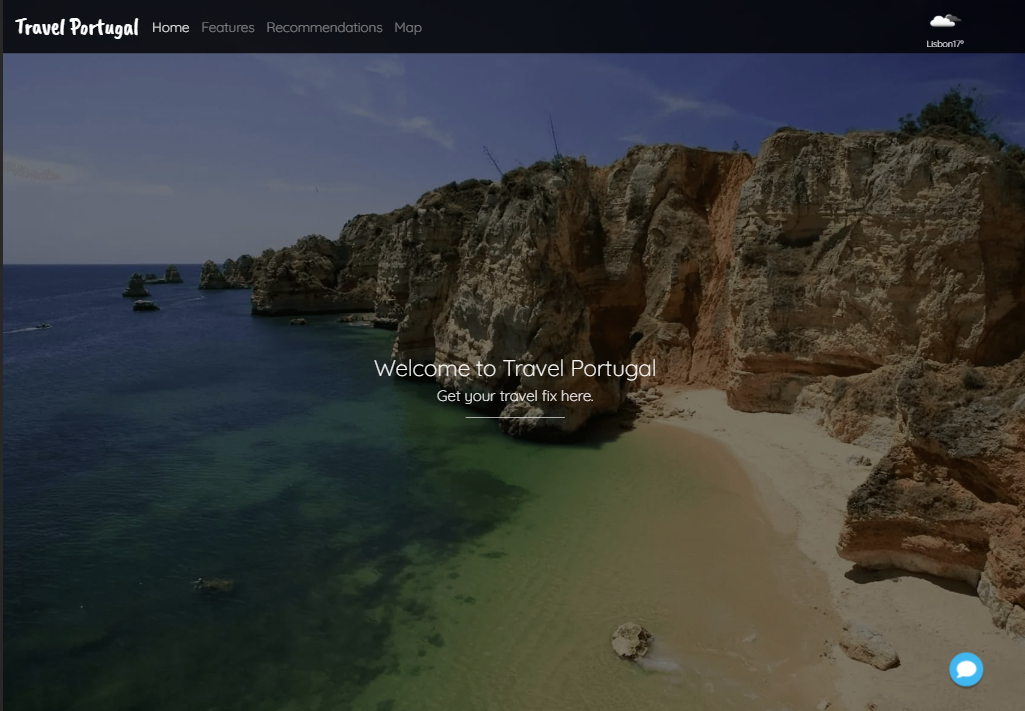
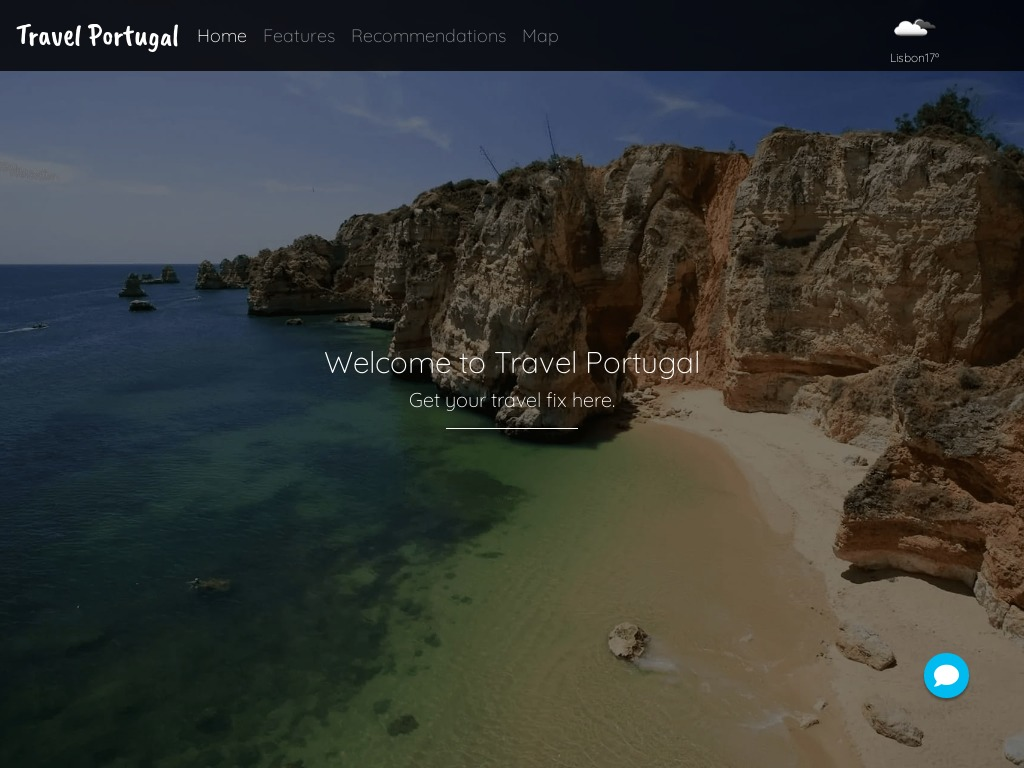
replace screenshot image

diff --git a/README.md b/README.md
@@ -1,6 +1,6 @@
 # Travel Portugal
 <p align="center">
-<img width="800" height="600" src="https://github.com/Brainvibe/travelportugal/blob/master/wireframes/website_screenshot.png">
+<img width="1024" height="768" src="https://github.com/Brainvibe/travelportugal/blob/master/wireframes/website_screenshot.png">
 </p>
 
 Live version [here](https://brainvibe.github.io/travelportugal/)
